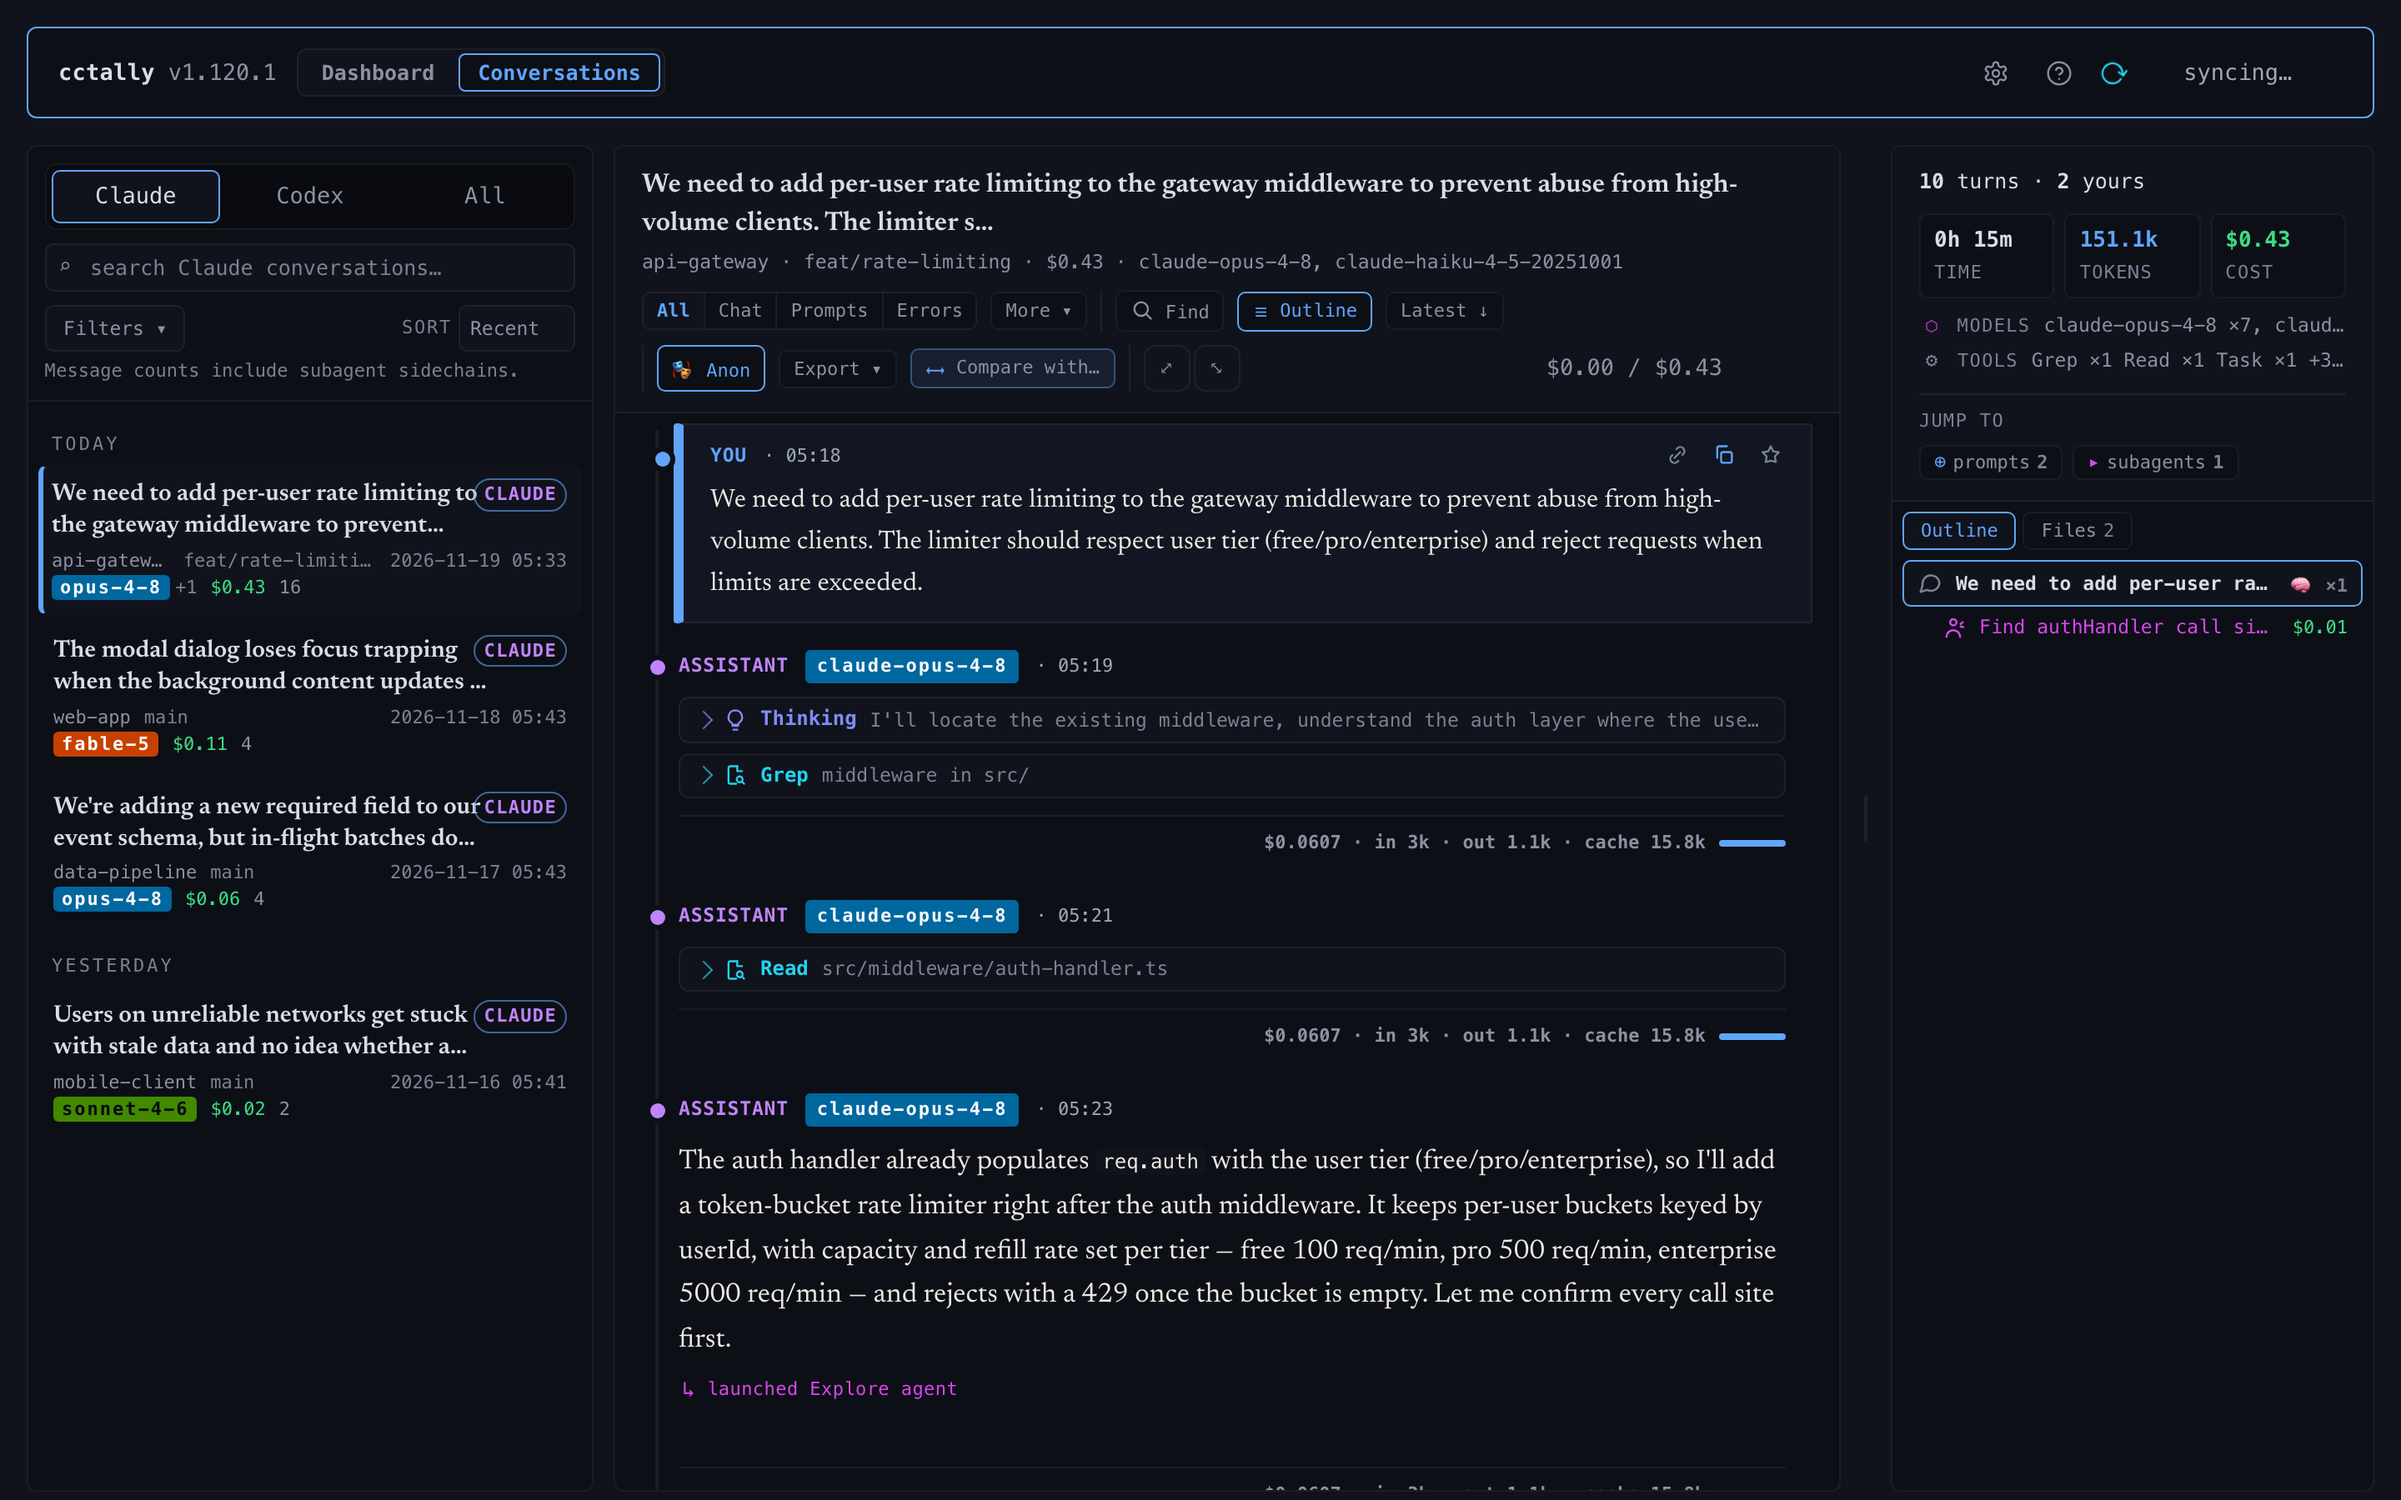
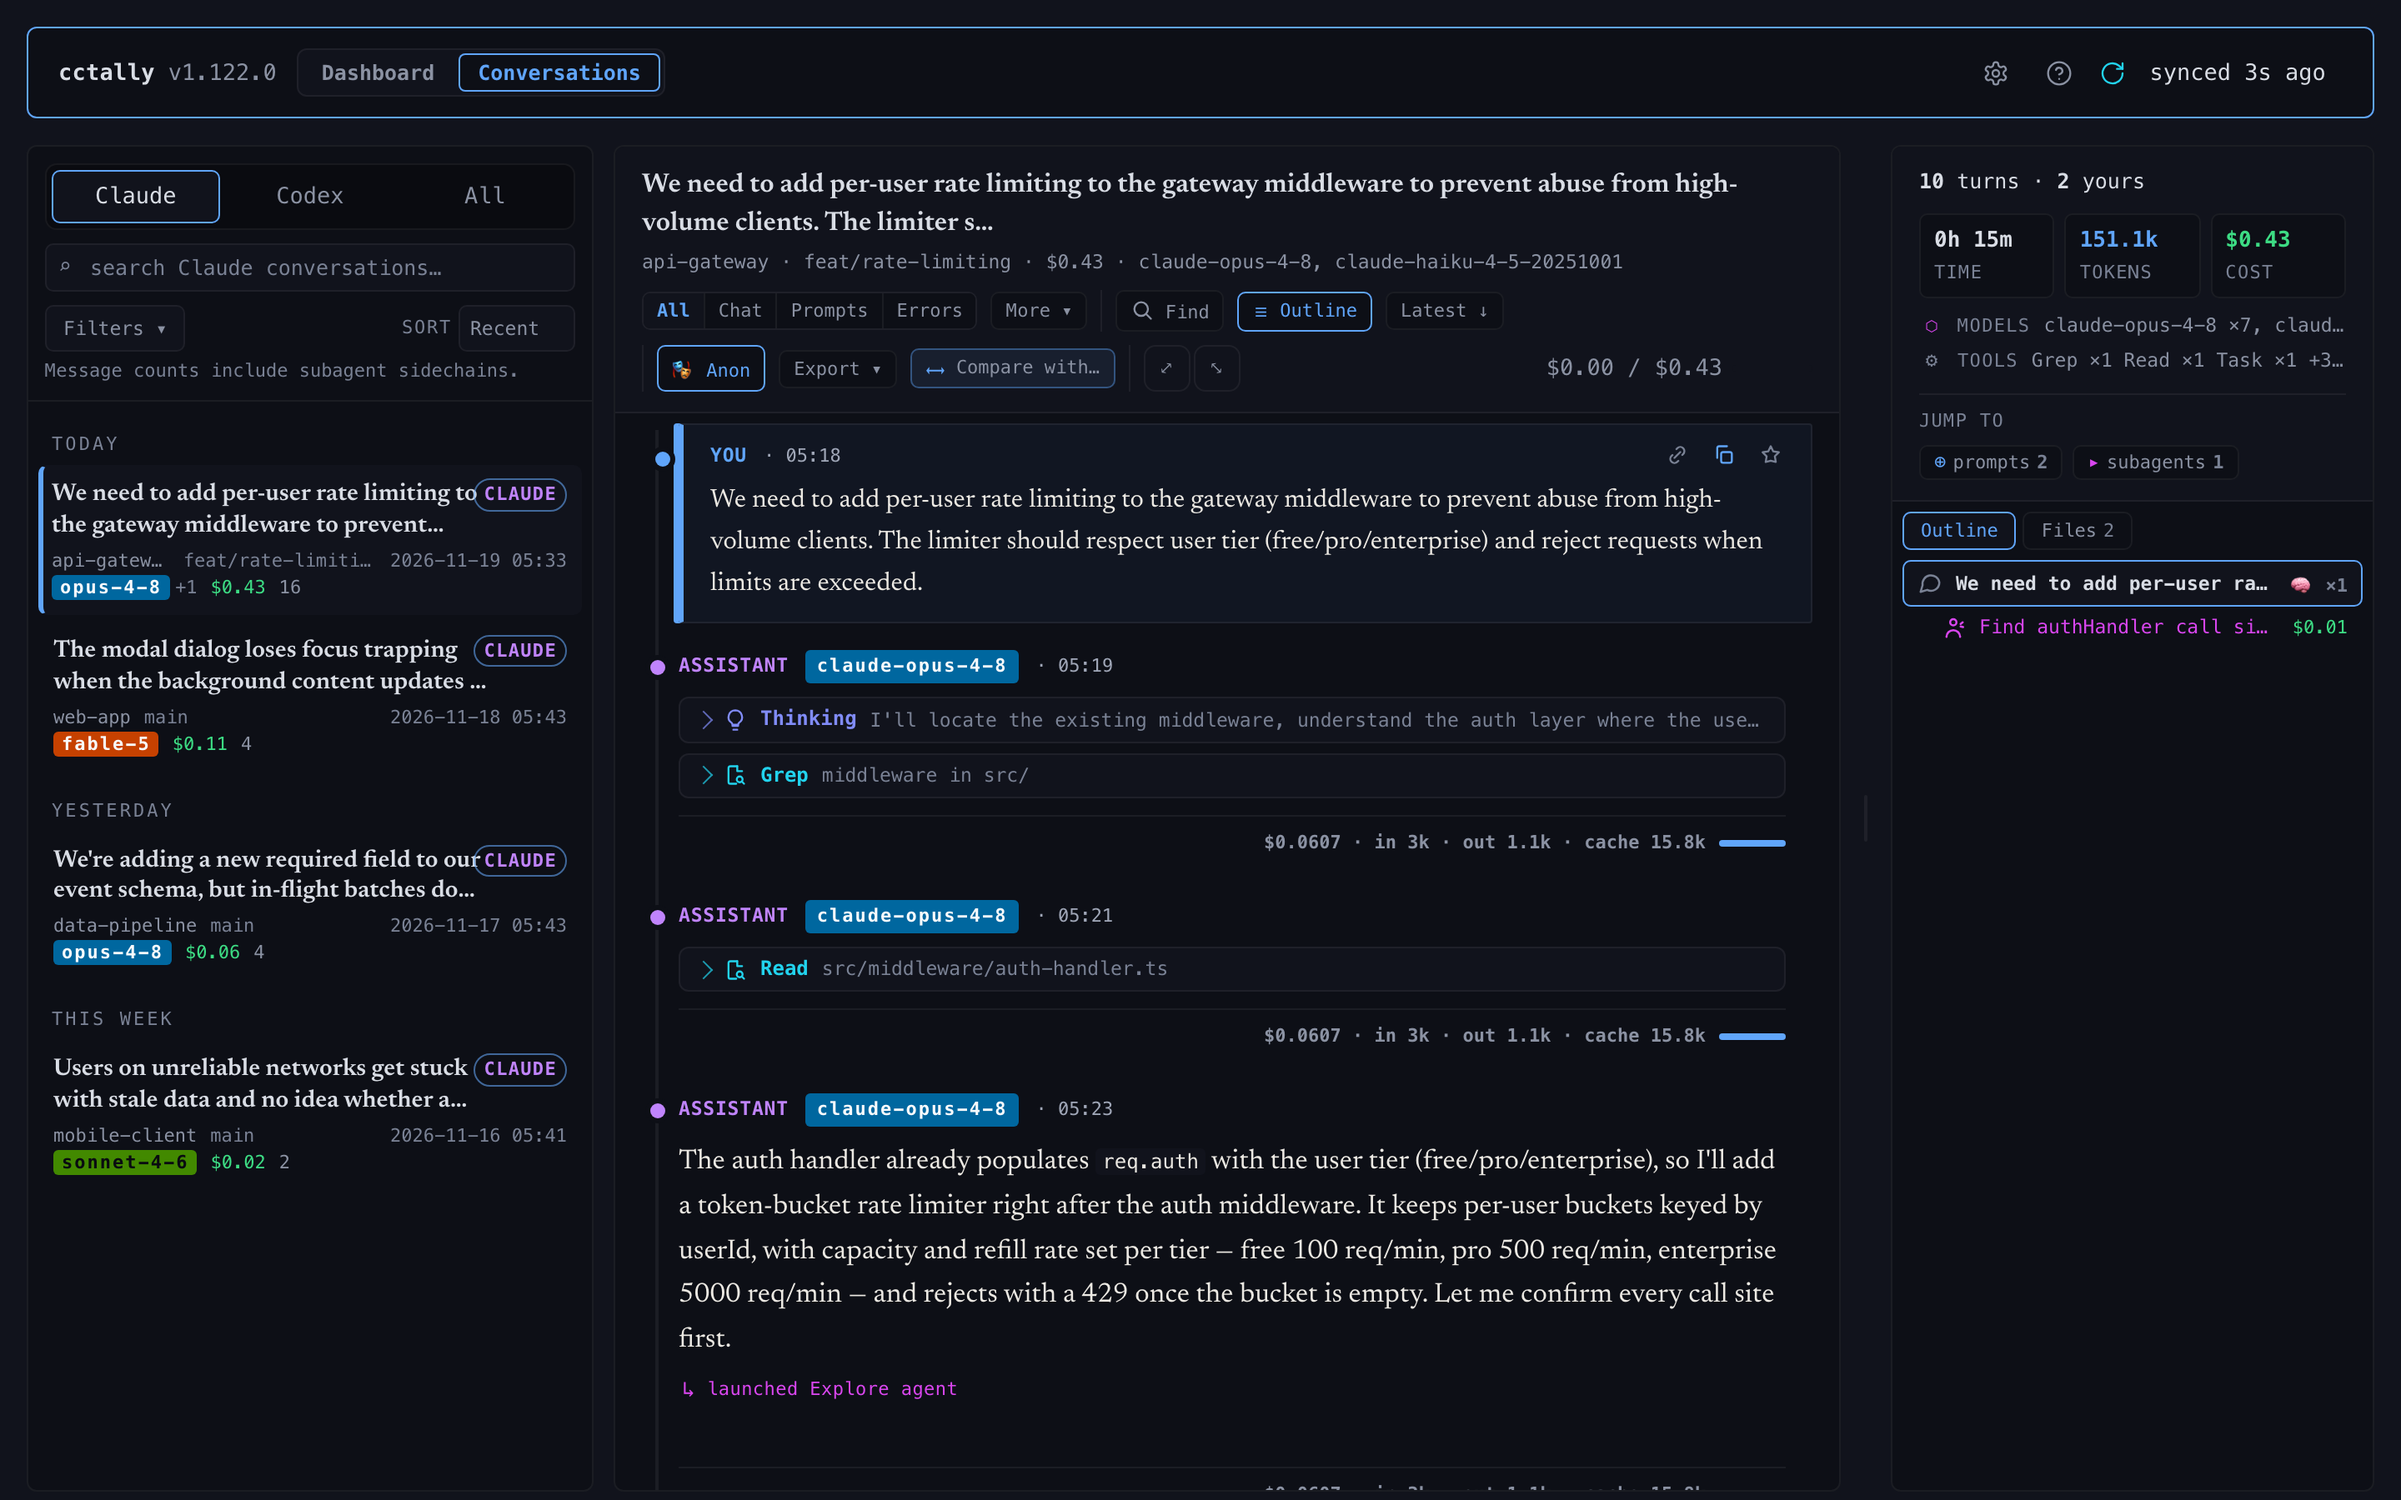
readme refresh for v1.122.0

Changed region(s): [[0.0, 0.5289, 0.25, 0.8089], [0.9062, 0.0311, 0.9688, 0.0622]]

diff --git a/README.md b/README.md
@@ -30,13 +30,15 @@ Your Claude Code plan meters you with a percentage that creeps up all week. ccta
 </p>
 
 <!-- cctally:latest-stable:begin -->
-**Latest stable: v1.120.1** (2026-11-17)
+**Latest stable: v1.122.0** (2026-11-18)
 
-Highlights from the `v1.118.2` to `v1.120.1` stable upgrade:
+Highlights from the `v1.120.1` to `v1.122.0` stable upgrade:
 
-- With an older SQLite, as many Linux distributions ship, upgrading an old install whose `cache.db` is damaged no longer shows a database migration error; the upgrade waits until the cache is repaired, as it already did with newer SQLite.
+- Codex cost reports price `gpt-6.2-astra`, `gpt-6.2-sol`, `gpt-6.2-astra-law` and `gpt-6-cyber` from their published rate cards instead of falling back to `gpt-5` rates, including usage recorded before you upgrade.
+- Claude cost reports price `claude-fable-5-2` and `claude-mythos-5-2`, including Fast mode, instead of counting them at $0, and `statusline` uses their 1M context window.
+- The `dashboard` no longer briefly drops its `stats.db` locks while checking the database version, which could let the status line write at the same moment a page was reading or a refresh was writing.
 
-[See every change in this stable upgrade](https://github.com/omrikais/cctally/releases/tag/v1.120.1)
+[See every change in this stable upgrade](https://github.com/omrikais/cctally/releases/tag/v1.122.0)
 <!-- cctally:latest-stable:end -->
 
 ## Quick start
